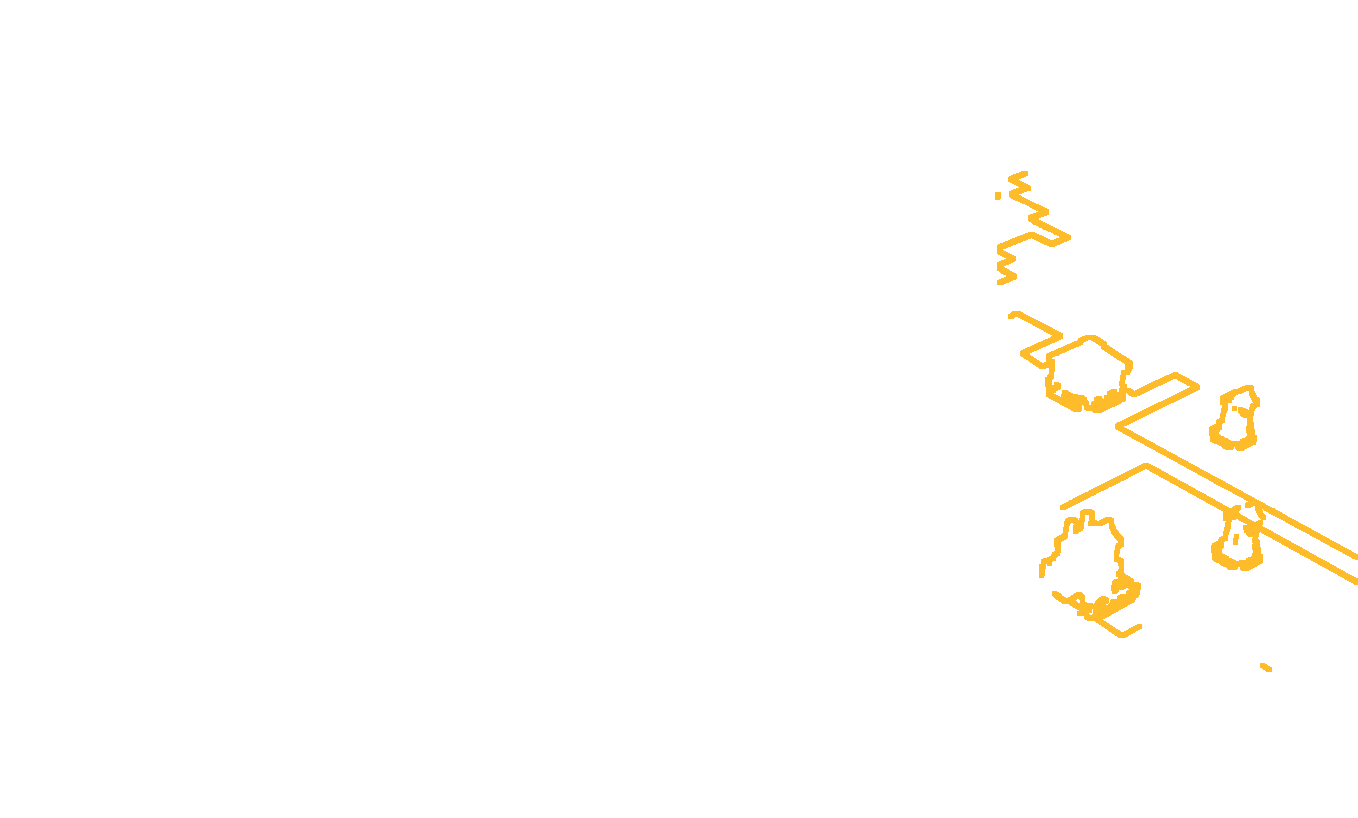
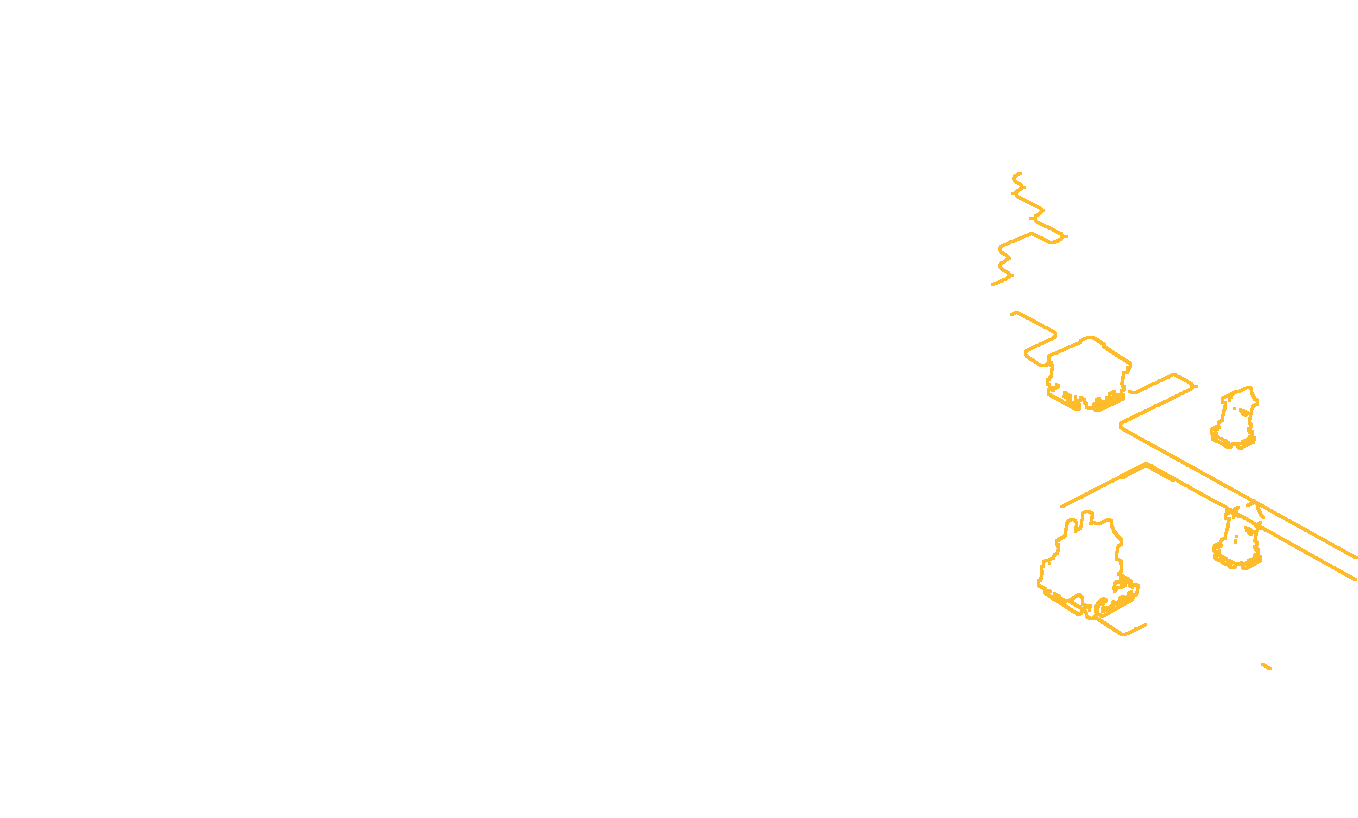
fix: align RoughMerge map regions and highlights
- Remap all 12 location labels to the matching district polygons and validate their gameplay names and types.\n- Regenerate thinner gold highlights, removing Market/Alliance and Bureaucracy/Arsenal bleed while restoring Mobilization outlines.\n- Trace the Farm perimeter from finalmap-redline.png and reduce the broad red guide to a clean gold centerline.\n- Apply the corrected positions and 12 PolygonCollider2D regions to RoughMerge MainMap while preserving teammate merge content.

diff --git a/Assets/Editor/ZebraMapSceneSetup.cs b/Assets/Editor/ZebraMapSceneSetup.cs
@@ -14,24 +14,39 @@ public static class ZebraMapSceneSetup
     private const float MapWidth = 200f;
     private const float MapCenterY = 8f;
 
-    // Pixel outlines traced from the final illustrated map. The actual playable areas
-    // follow their highlighted buildings and fields instead of using an invisible grid.
+    // Pixel outlines traced from the final illustrated map. Keys deliberately follow
+    // the visible labels in MainMap: gameplay identity, tooltip, collider and highlight
+    // must all refer to the building beneath the same label.
     private static readonly Dictionary<string, Vector2[]> LocationPolygons = new Dictionary<string, Vector2[]>
     {
-        { "royalgrace", Points(576, 214, 637, 202, 691, 243, 695, 322, 651, 365, 588, 351, 560, 300) },
-        { "bureaucracy", Points(750, 178, 835, 163, 936, 187, 977, 239, 957, 302, 886, 323, 795, 305, 740, 251) },
+        { "mobilization", Points(0, 250, 64, 216, 163, 191, 257, 222, 272, 283, 223, 350, 118, 365, 25, 330) },
+        { "generousdonation", Points(300, 232, 355, 193, 421, 205, 460, 257, 451, 326, 394, 354, 329, 337, 294, 290) },
+        { "bureaucracy", Points(576, 214, 637, 202, 691, 243, 695, 322, 651, 365, 588, 351, 560, 300) },
+        { "patrol", Points(750, 178, 835, 163, 936, 187, 977, 239, 957, 302, 886, 323, 795, 305, 740, 251) },
         { "farm", Points(1012, 172, 1090, 192, 1190, 229, 1357, 275, 1357, 688, 1293, 671, 1205, 650, 1127, 625, 1066, 576, 1030, 516, 1077, 465, 1033, 420, 1075, 373, 1016, 328) },
-        { "barrack", Points(0, 250, 64, 216, 163, 191, 257, 222, 272, 283, 223, 350, 118, 365, 25, 330) },
-        { "generousdonation", Points(94, 418, 158, 388, 228, 400, 274, 451, 278, 510, 235, 542, 154, 529, 100, 481) },
-        // The stone workshop is the Arsenal; the orange amphitheatre is Ceremony.
-        // These two regions were reversed in the first map experiment.
-        { "arsenal", Points(344, 382, 395, 357, 451, 380, 467, 430, 438, 472, 376, 470, 341, 429) },
-        { "guild", Points(478, 366, 544, 338, 610, 360, 637, 412, 620, 466, 548, 478, 487, 449) },
-        { "ceremony", Points(803, 392, 858, 367, 925, 393, 948, 444, 923, 493, 856, 502, 808, 461) },
-        { "alliance", Points(300, 232, 355, 193, 421, 205, 460, 257, 451, 326, 394, 354, 329, 337, 294, 290) },
-        { "patrol", Points(753, 324, 811, 304, 867, 329, 880, 381, 850, 414, 791, 405, 749, 368) },
+        { "royalgrace", Points(94, 418, 158, 388, 228, 400, 274, 451, 278, 510, 235, 542, 154, 529, 100, 481) },
+        { "barrack", Points(344, 382, 395, 357, 451, 380, 467, 430, 438, 472, 376, 470, 341, 429) },
+        { "arsenal", Points(478, 366, 544, 338, 610, 360, 637, 412, 620, 466, 548, 478, 487, 449) },
+        { "guild", Points(803, 392, 858, 367, 925, 393, 948, 444, 923, 493, 856, 502, 808, 461) },
+        { "ceremony", Points(753, 324, 811, 304, 867, 329, 880, 381, 850, 414, 791, 405, 749, 368) },
         { "market", Points(648, 518, 737, 493, 837, 523, 929, 583, 942, 669, 871, 719, 759, 713, 667, 661, 629, 589) },
-        { "mobilization", Points(350, 562, 437, 520, 541, 519, 617, 566, 635, 640, 582, 689, 457, 711, 366, 667, 336, 610) }
+        { "alliance", Points(350, 562, 437, 520, 541, 519, 617, 566, 635, 640, 582, 689, 457, 711, 366, 667, 336, 610) }
+    };
+
+    private static readonly Dictionary<string, LocationType> ExpectedLocationTypes = new Dictionary<string, LocationType>
+    {
+        { "farm", LocationType.Economy },
+        { "guild", LocationType.Economy },
+        { "market", LocationType.Economy },
+        { "arsenal", LocationType.Military },
+        { "barrack", LocationType.Military },
+        { "mobilization", LocationType.Military },
+        { "bureaucracy", LocationType.Administration },
+        { "ceremony", LocationType.Administration },
+        { "patrol", LocationType.Administration },
+        { "alliance", LocationType.Diplomacy },
+        { "generousdonation", LocationType.Diplomacy },
+        { "royalgrace", LocationType.Diplomacy }
     };
 
     private const float MapPixelWidth = 1358f;
@@ -177,6 +192,15 @@ public static class ZebraMapSceneSetup
             {
                 unmapped.Add(location.name);
                 continue;
+            }
+
+            if (!ExpectedLocationTypes.TryGetValue(key, out LocationType expectedType)
+                || location.GetLocationType() != expectedType
+                || Normalize(location.GetInfoName(false)) != key)
+            {
+                throw new InvalidOperationException(
+                    $"Location identity mismatch for {location.name}: "
+                    + $"type={location.GetLocationType()}, info={location.GetInfoName(false)}");
             }
 
             location.transform.SetParent(mapTransform, false);
